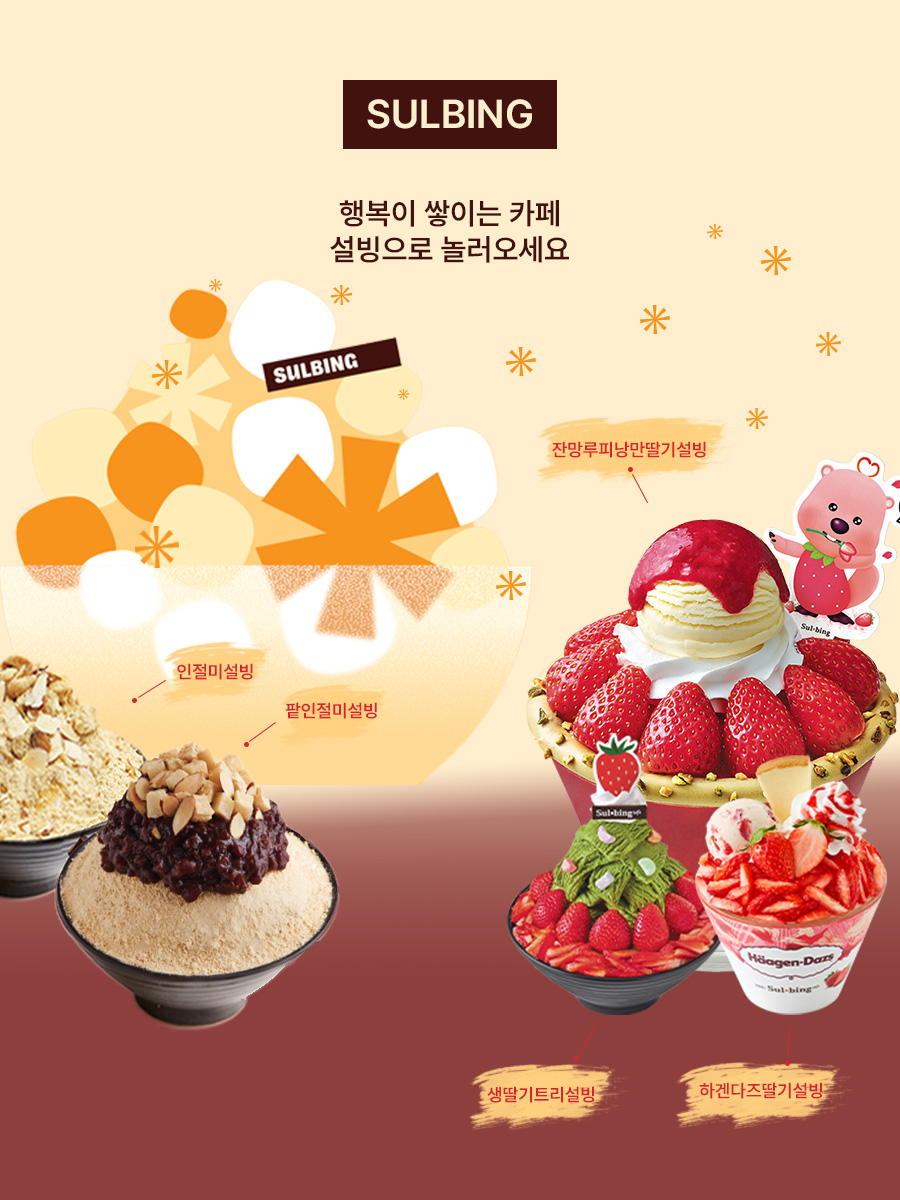
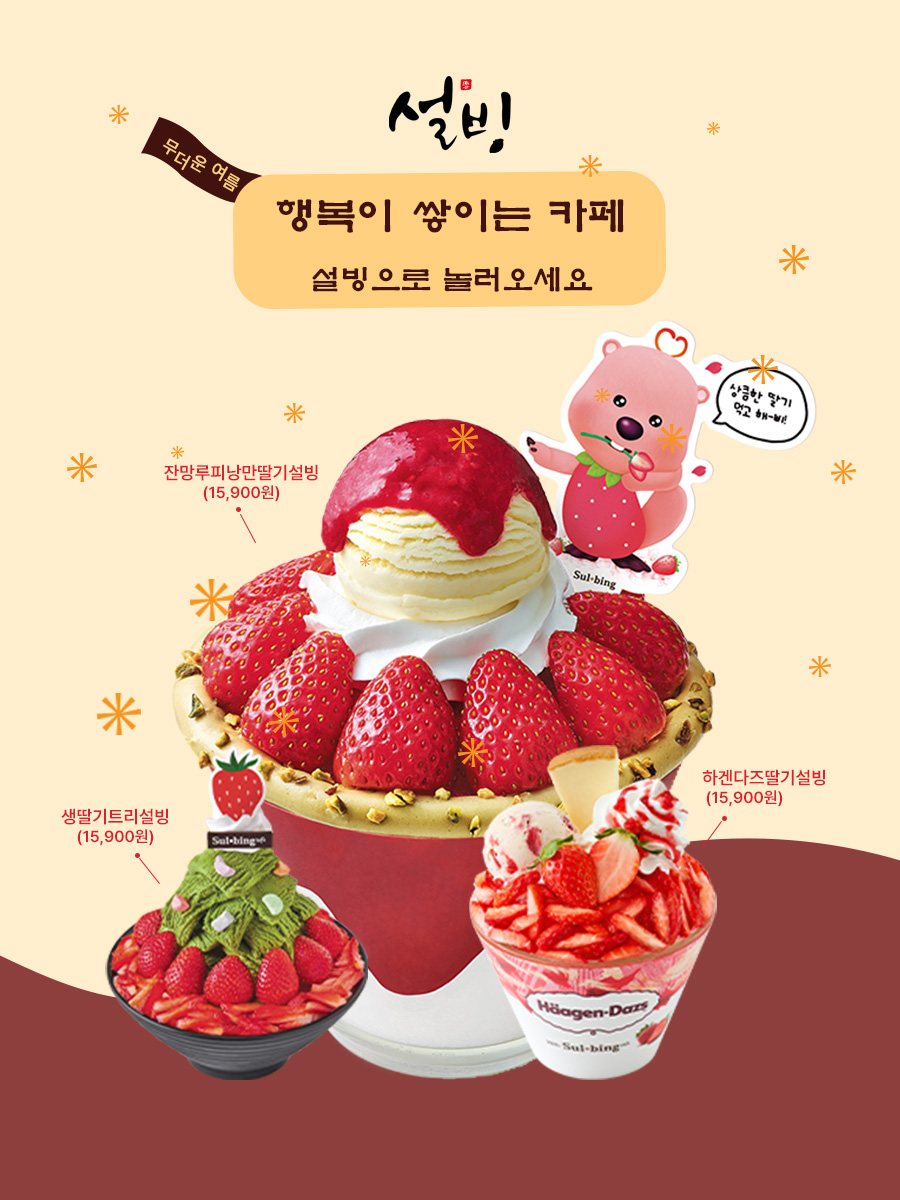
디자인 수정 후 추가

diff --git a/index.html b/index.html
@@ -326,7 +326,7 @@
                             <div class="swiper design_right">
                                 <div class="swiper-wrapper">
                                     <div class="swiper-slide slide1"><img src="./images/design_long01.jpg" alt=""></div>
-                                    <div class="swiper-slide slide1"><img src="./images/none.jpg" alt=""></div>
+                                    <div class="swiper-slide slide1"><img src="./images/design_long02.jpg" alt=""></div>
                                     <div class="swiper-slide slide1"><img src="./images/none.jpg" alt=""></div>
                                 </div>
                             </div>

diff --git a/styles/index.css b/styles/index.css
@@ -212,10 +212,10 @@ header p {color:#fff;}
     width:max-content;
 }
 #wrap .swiper-wrapper .project_design .container #project_design_swiper .design_container .design_left .design_poster .swiper-wrapper .swiper-slide {
-    width:300px;
+    width:300px;  height:300px;
 }
 #wrap .swiper-wrapper .project_design .container #project_design_swiper .design_container .design_left .design_poster .swiper-wrapper .swiper-slide img {
-    display:block; width:100%; height:300px;
+    display:block; width:100%;
 }
 #wrap .swiper-wrapper .project_design .container #project_design_swiper .design_container .design_left .design_long_banner {
     width:900px; margin-top:30px;
